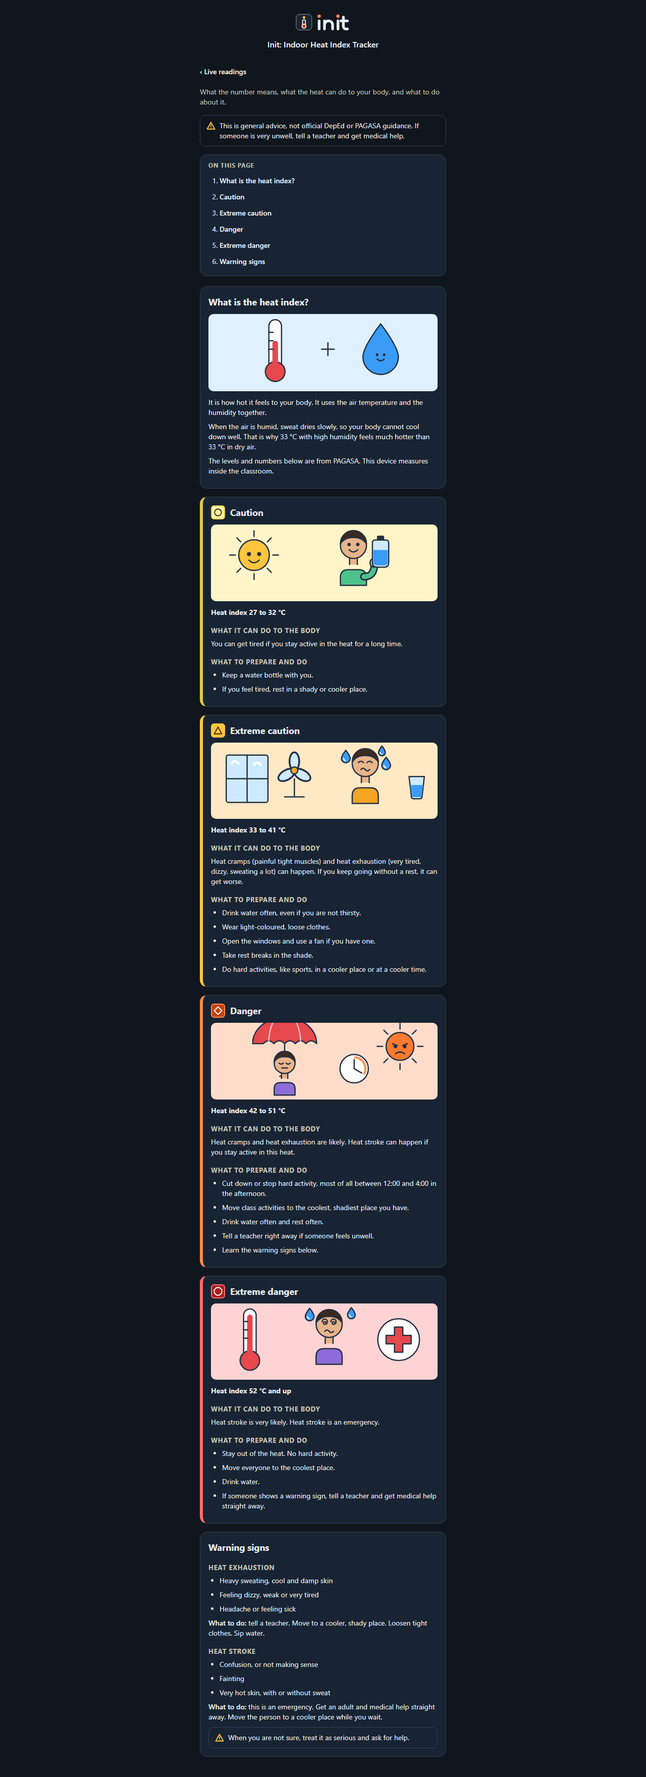
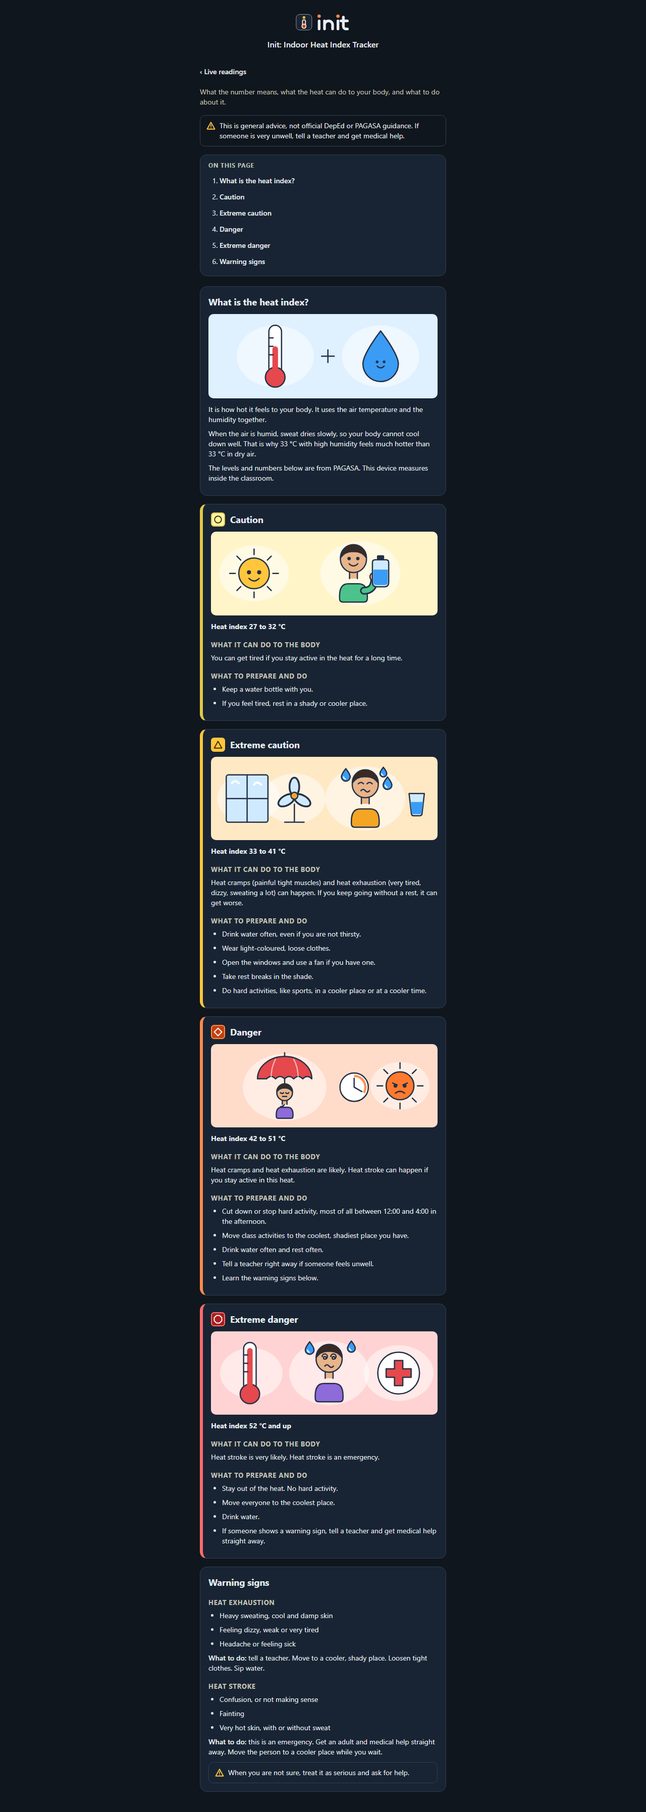
F-15 extended mocks: clip art laid out inside the frame, soft focus blobs, rounded kid busts
Nothing is cropped now. Mocks only, nothing built.

Changed region(s): [[0.3125, 0.0312, 0.6875, 1.0], [0.4688, 0.0, 0.5, 0.0312], [0.3125, 0.5625, 0.3438, 0.5938]]

diff --git a/design/heat-info/heat.html b/design/heat-info/heat.html
@@ -30,19 +30,19 @@
   </ol></nav>
 
   <section class="gd-sec" id="what"><h2>What is the heat index?</h2>
-    <svg class="hl-art hl-art-what" viewBox="0 0 326 110" aria-hidden="true"><g transform="translate(95 52) scale(1)"><rect x="-9" y="-44" width="18" height="70" rx="9" fill="#ffffff" stroke="#243044" stroke-width="2.5" stroke-linecap="round" stroke-linejoin="round" vector-effect="non-scaling-stroke"/><circle cx="0" cy="30" r="14" fill="#e5484d" stroke="#243044" stroke-width="2.5" stroke-linecap="round" stroke-linejoin="round" vector-effect="non-scaling-stroke"/><rect x="-4" y="-14" width="8" height="48" rx="4" fill="#e5484d"/><path d="M-9 -26h6M-9 -14h6M-9 -2h6" fill="none" stroke="#243044" stroke-width="2.5" stroke-linecap="round" stroke-linejoin="round" vector-effect="non-scaling-stroke" stroke-width="2"/></g><path d="M161 50h18M170 41v18" fill="none" stroke="#243044" stroke-width="2.5" stroke-linecap="round" stroke-linejoin="round" vector-effect="non-scaling-stroke" stroke-width="5"/><g transform="translate(245 50) scale(1)"><g transform="translate(0 0) scale(3.6)"><path d="M0-10C0-10-7-1-7 3a7 7 0 0 0 14 0C7-1 0-10 0-10z" fill="#3b9cf5" stroke="#243044" stroke-width="2.5" stroke-linecap="round" stroke-linejoin="round" vector-effect="non-scaling-stroke" stroke-width="2"/></g><g transform="translate(0 9)"><circle cx="-5" cy="-1" r="2" fill="#243044"/><circle cx="5" cy="-1" r="2" fill="#243044"/><path d="M-5 5Q0 10 5 5" fill="none" stroke="#243044" stroke-width="2.5" stroke-linecap="round" stroke-linejoin="round" vector-effect="non-scaling-stroke"/></g></g></svg>
+    <svg class="hl-art hl-art-what" viewBox="0 0 326 120" aria-hidden="true"><ellipse cx="95" cy="60" rx="55" ry="44" fill="#ffffff" opacity=".5"/><ellipse cx="245" cy="60" rx="55" ry="44" fill="#ffffff" opacity=".5"/><g transform="translate(95 60) scale(1)"><rect x="-9" y="-44" width="18" height="70" rx="9" fill="#ffffff" stroke="#243044" stroke-width="2.5" stroke-linecap="round" stroke-linejoin="round" vector-effect="non-scaling-stroke"/><circle cx="0" cy="30" r="14" fill="#e5484d" stroke="#243044" stroke-width="2.5" stroke-linecap="round" stroke-linejoin="round" vector-effect="non-scaling-stroke"/><rect x="-4" y="-14" width="8" height="48" rx="4" fill="#e5484d"/><path d="M-9 -26h6M-9 -14h6M-9 -2h6" fill="none" stroke="#243044" stroke-width="2.5" stroke-linecap="round" stroke-linejoin="round" vector-effect="non-scaling-stroke" stroke-width="2"/></g><path d="M161 60h18M170 51v18" fill="none" stroke="#243044" stroke-width="2.5" stroke-linecap="round" stroke-linejoin="round" vector-effect="non-scaling-stroke" stroke-width="5"/><g transform="translate(245 60) scale(1)"><g transform="translate(0 0) scale(3.6)"><path d="M0-10C0-10-7-1-7 3a7 7 0 0 0 14 0C7-1 0-10 0-10z" fill="#3b9cf5" stroke="#243044" stroke-width="2.5" stroke-linecap="round" stroke-linejoin="round" vector-effect="non-scaling-stroke" stroke-width="2"/></g><g transform="translate(0 9)"><circle cx="-5" cy="-1" r="2" fill="#243044"/><circle cx="5" cy="-1" r="2" fill="#243044"/><path d="M-5 5Q0 10 5 5" fill="none" stroke="#243044" stroke-width="2.5" stroke-linecap="round" stroke-linejoin="round" vector-effect="non-scaling-stroke"/></g></g></svg>
     <p>It is how hot it feels to your body. It uses the air temperature and the humidity together.</p>
     <p>When the air is humid, sweat dries slowly, so your body cannot cool down well. That is why 33 °C with high humidity feels much hotter than 33 °C in dry air.</p>
     <p>The levels and numbers below are from PAGASA. This device measures inside the classroom.</p></section>
 
   <section class="gd-sec hl-sec hl-caution" id="caution"><h2><span class="school-chip sc-caution"><svg viewBox="0 0 24 24" aria-hidden="true"><circle cx="12" cy="12" r="9"/></svg></span>Caution</h2>
-    <svg class="hl-art hl-art-caution" viewBox="0 0 326 110" aria-hidden="true"><g transform="translate(62 44) scale(1)"><path d="M27.0 0.0L35.0 0.0" fill="none" stroke="#243044" stroke-width="2.5" stroke-linecap="round" stroke-linejoin="round" vector-effect="non-scaling-stroke" stroke-width="3.5"/><path d="M19.1 19.1L24.7 24.7" fill="none" stroke="#243044" stroke-width="2.5" stroke-linecap="round" stroke-linejoin="round" vector-effect="non-scaling-stroke" stroke-width="3.5"/><path d="M0.0 27.0L0.0 35.0" fill="none" stroke="#243044" stroke-width="2.5" stroke-linecap="round" stroke-linejoin="round" vector-effect="non-scaling-stroke" stroke-width="3.5"/><path d="M-19.1 19.1L-24.7 24.7" fill="none" stroke="#243044" stroke-width="2.5" stroke-linecap="round" stroke-linejoin="round" vector-effect="non-scaling-stroke" stroke-width="3.5"/><path d="M-27.0 0.0L-35.0 0.0" fill="none" stroke="#243044" stroke-width="2.5" stroke-linecap="round" stroke-linejoin="round" vector-effect="non-scaling-stroke" stroke-width="3.5"/><path d="M-19.1 -19.1L-24.7 -24.7" fill="none" stroke="#243044" stroke-width="2.5" stroke-linecap="round" stroke-linejoin="round" vector-effect="non-scaling-stroke" stroke-width="3.5"/><path d="M-0.0 -27.0L-0.0 -35.0" fill="none" stroke="#243044" stroke-width="2.5" stroke-linecap="round" stroke-linejoin="round" vector-effect="non-scaling-stroke" stroke-width="3.5"/><path d="M19.1 -19.1L24.7 -24.7" fill="none" stroke="#243044" stroke-width="2.5" stroke-linecap="round" stroke-linejoin="round" vector-effect="non-scaling-stroke" stroke-width="3.5"/><circle r="22" fill="#ffc53d" stroke="#243044" stroke-width="2.5" stroke-linecap="round" stroke-linejoin="round" vector-effect="non-scaling-stroke"/><g transform="translate(0 0) scale(1.4666666666666666)"><circle cx="-5" cy="-1" r="2" fill="#243044"/><circle cx="5" cy="-1" r="2" fill="#243044"/><path d="M-5 5Q0 10 5 5" fill="none" stroke="#243044" stroke-width="2.5" stroke-linecap="round" stroke-linejoin="round" vector-effect="non-scaling-stroke"/></g></g><g transform="translate(205 30) scale(1.25)">
-  <path d="M-15 46v-9q0-9 9-9h12q9 0 9 9v9z" fill="#4cc38a" stroke="#243044" stroke-width="2.5" stroke-linecap="round" stroke-linejoin="round" vector-effect="non-scaling-stroke"/>
+    <svg class="hl-art hl-art-caution" viewBox="0 0 326 120" aria-hidden="true"><ellipse cx="62" cy="60" rx="50" ry="40" fill="#ffffff" opacity=".5"/><ellipse cx="215" cy="60" rx="57.5" ry="46" fill="#ffffff" opacity=".5"/><g transform="translate(62 60) scale(1)"><path d="M27.0 0.0L35.0 0.0" fill="none" stroke="#243044" stroke-width="2.5" stroke-linecap="round" stroke-linejoin="round" vector-effect="non-scaling-stroke" stroke-width="3.5"/><path d="M19.1 19.1L24.7 24.7" fill="none" stroke="#243044" stroke-width="2.5" stroke-linecap="round" stroke-linejoin="round" vector-effect="non-scaling-stroke" stroke-width="3.5"/><path d="M0.0 27.0L0.0 35.0" fill="none" stroke="#243044" stroke-width="2.5" stroke-linecap="round" stroke-linejoin="round" vector-effect="non-scaling-stroke" stroke-width="3.5"/><path d="M-19.1 19.1L-24.7 24.7" fill="none" stroke="#243044" stroke-width="2.5" stroke-linecap="round" stroke-linejoin="round" vector-effect="non-scaling-stroke" stroke-width="3.5"/><path d="M-27.0 0.0L-35.0 0.0" fill="none" stroke="#243044" stroke-width="2.5" stroke-linecap="round" stroke-linejoin="round" vector-effect="non-scaling-stroke" stroke-width="3.5"/><path d="M-19.1 -19.1L-24.7 -24.7" fill="none" stroke="#243044" stroke-width="2.5" stroke-linecap="round" stroke-linejoin="round" vector-effect="non-scaling-stroke" stroke-width="3.5"/><path d="M-0.0 -27.0L-0.0 -35.0" fill="none" stroke="#243044" stroke-width="2.5" stroke-linecap="round" stroke-linejoin="round" vector-effect="non-scaling-stroke" stroke-width="3.5"/><path d="M19.1 -19.1L24.7 -24.7" fill="none" stroke="#243044" stroke-width="2.5" stroke-linecap="round" stroke-linejoin="round" vector-effect="non-scaling-stroke" stroke-width="3.5"/><circle r="22" fill="#ffc53d" stroke="#243044" stroke-width="2.5" stroke-linecap="round" stroke-linejoin="round" vector-effect="non-scaling-stroke"/><g transform="translate(0 0) scale(1.4666666666666666)"><circle cx="-5" cy="-1" r="2" fill="#243044"/><circle cx="5" cy="-1" r="2" fill="#243044"/><path d="M-5 5Q0 10 5 5" fill="none" stroke="#243044" stroke-width="2.5" stroke-linecap="round" stroke-linejoin="round" vector-effect="non-scaling-stroke"/></g></g><g transform="translate(205 40) scale(1.25)">
+  <path d="M-16 42q0-14 10-14h12q10 0 10 14v3q0 4-4 4h-24q-4 0-4-4z" fill="#4cc38a" stroke="#243044" stroke-width="2.5" stroke-linecap="round" stroke-linejoin="round" vector-effect="non-scaling-stroke"/>
   <path d="M12 36q12 0 12-14" fill="none" stroke="#243044" stroke-width="9" stroke-linecap="round"/><path d="M12 36q12 0 12-14" fill="none" stroke="#4cc38a" stroke-width="5.5" stroke-linecap="round"/><circle cx="24" cy="20" r="5" fill="#e8b48a" stroke="#243044" stroke-width="2.5" stroke-linecap="round" stroke-linejoin="round" vector-effect="non-scaling-stroke"/>
   <rect x="-4.5" y="13" width="9" height="9" fill="#e8b48a"/><path d="M-4.5 14v8M4.5 14v8" fill="none" stroke="#243044" stroke-width="2.5" stroke-linecap="round" stroke-linejoin="round" vector-effect="non-scaling-stroke"/>
   <circle cx="0" cy="0" r="15" fill="#e8b48a" stroke="#243044" stroke-width="2.5" stroke-linecap="round" stroke-linejoin="round" vector-effect="non-scaling-stroke"/>
   <path d="M-15 -2A15 15 0 0 1 15 -2Q9-10 0-9Q-9-10-15-2z" fill="#3b2a20" stroke="#243044" stroke-width="2.5" stroke-linecap="round" stroke-linejoin="round" vector-effect="non-scaling-stroke"/>
-  <circle cx="-5" cy="-1" r="2" fill="#243044"/><circle cx="5" cy="-1" r="2" fill="#243044"/><path d="M-5 5Q0 10 5 5" fill="none" stroke="#243044" stroke-width="2.5" stroke-linecap="round" stroke-linejoin="round" vector-effect="non-scaling-stroke"/></g><g transform="translate(244 38) scale(1.3)"><rect x="-4" y="-17" width="8" height="5" rx="1.5" fill="#243044"/><path d="M-6-12h12q3 0 3 3v22q0 5-5 5h-8q-5 0-5-5v-22q0-3 3-3z" fill="#cfeaff" stroke="#243044" stroke-width="2.5" stroke-linecap="round" stroke-linejoin="round" vector-effect="non-scaling-stroke"/><path d="M-8 -1h16v14q0 3-4 3h-8q-4 0-4-3z" fill="#3b9cf5"/></g></svg>
+  <circle cx="-5" cy="-1" r="2" fill="#243044"/><circle cx="5" cy="-1" r="2" fill="#243044"/><path d="M-5 5Q0 10 5 5" fill="none" stroke="#243044" stroke-width="2.5" stroke-linecap="round" stroke-linejoin="round" vector-effect="non-scaling-stroke"/></g><g transform="translate(244 56) scale(1.3)"><rect x="-4" y="-17" width="8" height="5" rx="1.5" fill="#243044"/><path d="M-6-12h12q3 0 3 3v22q0 5-5 5h-8q-5 0-5-5v-22q0-3 3-3z" fill="#cfeaff" stroke="#243044" stroke-width="2.5" stroke-linecap="round" stroke-linejoin="round" vector-effect="non-scaling-stroke"/><path d="M-8 -1h16v14q0 3-4 3h-8q-4 0-4-3z" fill="#3b9cf5"/></g></svg>
     <p class="hl-range">Heat index 27 to 32 °C</p>
     <h3>What it can do to the body</h3>
     <p>You can get tired if you stay active in the heat for a long time.</p>
@@ -50,13 +50,13 @@
     <ul><li>Keep a water bottle with you.</li><li>If you feel tired, rest in a shady or cooler place.</li></ul></section>
 
   <section class="gd-sec hl-sec hl-extreme-caution" id="extreme-caution"><h2><span class="school-chip sc-extreme-caution"><svg viewBox="0 0 24 24" aria-hidden="true"><path d="M12 3 22 21H2z"/></svg></span>Extreme caution</h2>
-    <svg class="hl-art hl-art-extreme-caution" viewBox="0 0 326 110" aria-hidden="true"><g transform="translate(52 52) scale(1)"><rect x="-30" y="-34" width="60" height="68" rx="3" fill="#cfeaff" stroke="#243044" stroke-width="2.5" stroke-linecap="round" stroke-linejoin="round" vector-effect="non-scaling-stroke"/><path d="M0-34v68M-30 0h60" fill="none" stroke="#243044" stroke-width="2.5" stroke-linecap="round" stroke-linejoin="round" vector-effect="non-scaling-stroke"/><path d="M-22-22q4-6 10 0M10-20q4-6 10 0" fill="none" stroke="#ffffff" stroke-width="3" stroke-linecap="round"/></g><g transform="translate(120 40) scale(1)"><path d="M-14 38h28M0 12v26" fill="none" stroke="#243044" stroke-width="2.5" stroke-linecap="round" stroke-linejoin="round" vector-effect="non-scaling-stroke" stroke-width="3.5"/><g fill="#cfeaff" stroke="#243044" stroke-width="2.5" stroke-linecap="round" stroke-linejoin="round" vector-effect="non-scaling-stroke"><ellipse cx="0" cy="-13" rx="7" ry="13"/><ellipse cx="0" cy="-13" rx="7" ry="13" transform="rotate(120)"/><ellipse cx="0" cy="-13" rx="7" ry="13" transform="rotate(240)"/></g><circle r="5" fill="#f5a524" stroke="#243044" stroke-width="2.5" stroke-linecap="round" stroke-linejoin="round" vector-effect="non-scaling-stroke"/></g><g transform="translate(222 30) scale(1.25)">
-  <path d="M-15 46v-9q0-9 9-9h12q9 0 9 9v9z" fill="#f5a524" stroke="#243044" stroke-width="2.5" stroke-linecap="round" stroke-linejoin="round" vector-effect="non-scaling-stroke"/>
+    <svg class="hl-art hl-art-extreme-caution" viewBox="0 0 326 120" aria-hidden="true"><ellipse cx="54" cy="60" rx="45" ry="36" fill="#ffffff" opacity=".5"/><ellipse cx="120" cy="60" rx="45" ry="36" fill="#ffffff" opacity=".5"/><ellipse cx="222" cy="60" rx="57.5" ry="46" fill="#ffffff" opacity=".5"/><g transform="translate(52 60) scale(1)"><rect x="-30" y="-34" width="60" height="68" rx="3" fill="#cfeaff" stroke="#243044" stroke-width="2.5" stroke-linecap="round" stroke-linejoin="round" vector-effect="non-scaling-stroke"/><path d="M0-34v68M-30 0h60" fill="none" stroke="#243044" stroke-width="2.5" stroke-linecap="round" stroke-linejoin="round" vector-effect="non-scaling-stroke"/><path d="M-22-22q4-6 10 0M10-20q4-6 10 0" fill="none" stroke="#ffffff" stroke-width="3" stroke-linecap="round"/></g><g transform="translate(120 56) scale(1)"><path d="M-14 38h28M0 12v26" fill="none" stroke="#243044" stroke-width="2.5" stroke-linecap="round" stroke-linejoin="round" vector-effect="non-scaling-stroke" stroke-width="3.5"/><g fill="#cfeaff" stroke="#243044" stroke-width="2.5" stroke-linecap="round" stroke-linejoin="round" vector-effect="non-scaling-stroke"><ellipse cx="0" cy="-13" rx="7" ry="13"/><ellipse cx="0" cy="-13" rx="7" ry="13" transform="rotate(120)"/><ellipse cx="0" cy="-13" rx="7" ry="13" transform="rotate(240)"/></g><circle r="5" fill="#f5a524" stroke="#243044" stroke-width="2.5" stroke-linecap="round" stroke-linejoin="round" vector-effect="non-scaling-stroke"/></g><g transform="translate(222 40) scale(1.25)">
+  <path d="M-16 42q0-14 10-14h12q10 0 10 14v3q0 4-4 4h-24q-4 0-4-4z" fill="#f5a524" stroke="#243044" stroke-width="2.5" stroke-linecap="round" stroke-linejoin="round" vector-effect="non-scaling-stroke"/>
   
   <rect x="-4.5" y="13" width="9" height="9" fill="#e8b48a"/><path d="M-4.5 14v8M4.5 14v8" fill="none" stroke="#243044" stroke-width="2.5" stroke-linecap="round" stroke-linejoin="round" vector-effect="non-scaling-stroke"/>
   <circle cx="0" cy="0" r="15" fill="#e8b48a" stroke="#243044" stroke-width="2.5" stroke-linecap="round" stroke-linejoin="round" vector-effect="non-scaling-stroke"/>
   <path d="M-15 -2A15 15 0 0 1 15 -2Q9-10 0-9Q-9-10-15-2z" fill="#3b2a20" stroke="#243044" stroke-width="2.5" stroke-linecap="round" stroke-linejoin="round" vector-effect="non-scaling-stroke"/>
-  <path d="M-8 -1q3-3 6 0M2 -1q3-3 6 0" fill="none" stroke="#243044" stroke-width="2.5" stroke-linecap="round" stroke-linejoin="round" vector-effect="non-scaling-stroke"/><path d="M-5 7q2.5-3 5 0t5 0" fill="none" stroke="#243044" stroke-width="2.5" stroke-linecap="round" stroke-linejoin="round" vector-effect="non-scaling-stroke"/></g><g transform="translate(194 20) scale(0.9)"><path d="M0-10C0-10-7-1-7 3a7 7 0 0 0 14 0C7-1 0-10 0-10z" fill="#3b9cf5" stroke="#243044" stroke-width="2.5" stroke-linecap="round" stroke-linejoin="round" vector-effect="non-scaling-stroke" stroke-width="2"/><path d="M-3.5 3a3.5 3.5 0 0 0 3 3.5" fill="none" stroke="#ffffff" stroke-width="1.8" stroke-linecap="round"/></g><g transform="translate(252 30) scale(0.9)"><path d="M0-10C0-10-7-1-7 3a7 7 0 0 0 14 0C7-1 0-10 0-10z" fill="#3b9cf5" stroke="#243044" stroke-width="2.5" stroke-linecap="round" stroke-linejoin="round" vector-effect="non-scaling-stroke" stroke-width="2"/><path d="M-3.5 3a3.5 3.5 0 0 0 3 3.5" fill="none" stroke="#ffffff" stroke-width="1.8" stroke-linecap="round"/></g><g transform="translate(246 12) scale(0.7)"><path d="M0-10C0-10-7-1-7 3a7 7 0 0 0 14 0C7-1 0-10 0-10z" fill="#3b9cf5" stroke="#243044" stroke-width="2.5" stroke-linecap="round" stroke-linejoin="round" vector-effect="non-scaling-stroke" stroke-width="2"/><path d="M-3.5 3a3.5 3.5 0 0 0 3 3.5" fill="none" stroke="#ffffff" stroke-width="1.8" stroke-linecap="round"/></g><g transform="translate(296 62) scale(1.1)"><path d="M-10-12h20l-3 26q0 3-3 3h-8q-3 0-3-3z" fill="#cfeaff" stroke="#243044" stroke-width="2.5" stroke-linecap="round" stroke-linejoin="round" vector-effect="non-scaling-stroke"/><path d="M-8.5 -1h17l-2 14q0 2-2 2h-9q-2 0-2-2z" fill="#3b9cf5"/></g></svg>
+  <path d="M-8 -1q3-3 6 0M2 -1q3-3 6 0" fill="none" stroke="#243044" stroke-width="2.5" stroke-linecap="round" stroke-linejoin="round" vector-effect="non-scaling-stroke"/><path d="M-5 7q2.5-3 5 0t5 0" fill="none" stroke="#243044" stroke-width="2.5" stroke-linecap="round" stroke-linejoin="round" vector-effect="non-scaling-stroke"/></g><g transform="translate(194 26) scale(0.9)"><path d="M0-10C0-10-7-1-7 3a7 7 0 0 0 14 0C7-1 0-10 0-10z" fill="#3b9cf5" stroke="#243044" stroke-width="2.5" stroke-linecap="round" stroke-linejoin="round" vector-effect="non-scaling-stroke" stroke-width="2"/><path d="M-3.5 3a3.5 3.5 0 0 0 3 3.5" fill="none" stroke="#ffffff" stroke-width="1.8" stroke-linecap="round"/></g><g transform="translate(254 38) scale(0.9)"><path d="M0-10C0-10-7-1-7 3a7 7 0 0 0 14 0C7-1 0-10 0-10z" fill="#3b9cf5" stroke="#243044" stroke-width="2.5" stroke-linecap="round" stroke-linejoin="round" vector-effect="non-scaling-stroke" stroke-width="2"/><path d="M-3.5 3a3.5 3.5 0 0 0 3 3.5" fill="none" stroke="#ffffff" stroke-width="1.8" stroke-linecap="round"/></g><g transform="translate(248 22) scale(0.7)"><path d="M0-10C0-10-7-1-7 3a7 7 0 0 0 14 0C7-1 0-10 0-10z" fill="#3b9cf5" stroke="#243044" stroke-width="2.5" stroke-linecap="round" stroke-linejoin="round" vector-effect="non-scaling-stroke" stroke-width="2"/><path d="M-3.5 3a3.5 3.5 0 0 0 3 3.5" fill="none" stroke="#ffffff" stroke-width="1.8" stroke-linecap="round"/></g><g transform="translate(296 66) scale(1.1)"><path d="M-10-12h20l-3 26q0 3-3 3h-8q-3 0-3-3z" fill="#cfeaff" stroke="#243044" stroke-width="2.5" stroke-linecap="round" stroke-linejoin="round" vector-effect="non-scaling-stroke"/><path d="M-8.5 -1h17l-2 14q0 2-2 2h-9q-2 0-2-2z" fill="#3b9cf5"/></g></svg>
     <p class="hl-range">Heat index 33 to 41 °C</p>
     <h3>What it can do to the body</h3>
     <p>Heat cramps (painful tight muscles) and heat exhaustion (very tired, dizzy, sweating a lot) can happen. If you keep going without a rest, it can get worse.</p>
@@ -64,13 +64,13 @@
     <ul><li>Drink water often, even if you are not thirsty.</li><li>Wear light-coloured, loose clothes.</li><li>Open the windows and use a fan if you have one.</li><li>Take rest breaks in the shade.</li><li>Do hard activities, like sports, in a cooler place or at a cooler time.</li></ul></section>
 
   <section class="gd-sec hl-sec hl-danger" id="danger"><h2><span class="school-chip sc-danger"><svg viewBox="0 0 24 24" aria-hidden="true"><path d="M12 2 22 12 12 22 2 12z"/></svg></span>Danger</h2>
-    <svg class="hl-art hl-art-danger" viewBox="0 0 326 110" aria-hidden="true"><g transform="translate(272 34) scale(1)"><path d="M25.0 0.0L33.0 0.0" fill="none" stroke="#243044" stroke-width="2.5" stroke-linecap="round" stroke-linejoin="round" vector-effect="non-scaling-stroke" stroke-width="3.5"/><path d="M17.7 17.7L23.3 23.3" fill="none" stroke="#243044" stroke-width="2.5" stroke-linecap="round" stroke-linejoin="round" vector-effect="non-scaling-stroke" stroke-width="3.5"/><path d="M0.0 25.0L0.0 33.0" fill="none" stroke="#243044" stroke-width="2.5" stroke-linecap="round" stroke-linejoin="round" vector-effect="non-scaling-stroke" stroke-width="3.5"/><path d="M-17.7 17.7L-23.3 23.3" fill="none" stroke="#243044" stroke-width="2.5" stroke-linecap="round" stroke-linejoin="round" vector-effect="non-scaling-stroke" stroke-width="3.5"/><path d="M-25.0 0.0L-33.0 0.0" fill="none" stroke="#243044" stroke-width="2.5" stroke-linecap="round" stroke-linejoin="round" vector-effect="non-scaling-stroke" stroke-width="3.5"/><path d="M-17.7 -17.7L-23.3 -23.3" fill="none" stroke="#243044" stroke-width="2.5" stroke-linecap="round" stroke-linejoin="round" vector-effect="non-scaling-stroke" stroke-width="3.5"/><path d="M-0.0 -25.0L-0.0 -33.0" fill="none" stroke="#243044" stroke-width="2.5" stroke-linecap="round" stroke-linejoin="round" vector-effect="non-scaling-stroke" stroke-width="3.5"/><path d="M17.7 -17.7L23.3 -23.3" fill="none" stroke="#243044" stroke-width="2.5" stroke-linecap="round" stroke-linejoin="round" vector-effect="non-scaling-stroke" stroke-width="3.5"/><circle r="20" fill="#ff7a2f" stroke="#243044" stroke-width="2.5" stroke-linecap="round" stroke-linejoin="round" vector-effect="non-scaling-stroke"/><g transform="translate(0 0) scale(1.3333333333333333)"><path d="M-8 -3l5 2M8 -3l-5 2" fill="none" stroke="#243044" stroke-width="2.5" stroke-linecap="round" stroke-linejoin="round" vector-effect="non-scaling-stroke"/><circle cx="-5" cy="0" r="2" fill="#243044"/><circle cx="5" cy="0" r="2" fill="#243044"/><path d="M-5 8Q0 4 5 8" fill="none" stroke="#243044" stroke-width="2.5" stroke-linecap="round" stroke-linejoin="round" vector-effect="non-scaling-stroke"/></g></g><g transform="translate(106 30) scale(1)"><path d="M-46 0a46 38 0 0 1 92 0q-8-8-15.3 0q-7.7-8-15.4 0q-7.6-8-15.3 0q-7.7-8-15.4 0q-7.6-8-15.3 0z" fill="#e5484d" stroke="#243044" stroke-width="2.5" stroke-linecap="round" stroke-linejoin="round" vector-effect="non-scaling-stroke"/><path d="M0 -38v-6" fill="none" stroke="#243044" stroke-width="2.5" stroke-linecap="round" stroke-linejoin="round" vector-effect="non-scaling-stroke"/><path d="M0 0v40q0 7-7 7" fill="none" stroke="#243044" stroke-width="2.5" stroke-linecap="round" stroke-linejoin="round" vector-effect="non-scaling-stroke" stroke-width="3.5"/><path d="M-15 -34q-8 14-8 34M15 -34q8 14 8 34" fill="none" stroke="#ffffff" stroke-width="2" opacity=".6"/></g><g transform="translate(106 58) scale(1)">
-  <path d="M-15 46v-9q0-9 9-9h12q9 0 9 9v9z" fill="#8e6bd8" stroke="#243044" stroke-width="2.5" stroke-linecap="round" stroke-linejoin="round" vector-effect="non-scaling-stroke"/>
+    <svg class="hl-art hl-art-danger" viewBox="0 0 326 120" aria-hidden="true"><ellipse cx="106" cy="62" rx="60" ry="48" fill="#ffffff" opacity=".5"/><g transform="translate(106 50) scale(0.85)"><path d="M-46 0a46 38 0 0 1 92 0q-8-8-15.3 0q-7.7-8-15.4 0q-7.6-8-15.3 0q-7.7-8-15.4 0q-7.6-8-15.3 0z" fill="#e5484d" stroke="#243044" stroke-width="2.5" stroke-linecap="round" stroke-linejoin="round" vector-effect="non-scaling-stroke"/><path d="M0 -38v-6" fill="none" stroke="#243044" stroke-width="2.5" stroke-linecap="round" stroke-linejoin="round" vector-effect="non-scaling-stroke"/><path d="M0 0v40q0 7-7 7" fill="none" stroke="#243044" stroke-width="2.5" stroke-linecap="round" stroke-linejoin="round" vector-effect="non-scaling-stroke" stroke-width="3.5"/><path d="M-15 -34q-8 14-8 34M15 -34q8 14 8 34" fill="none" stroke="#ffffff" stroke-width="2" opacity=".6"/></g><g transform="translate(106 70) scale(0.75)">
+  <path d="M-16 42q0-14 10-14h12q10 0 10 14v3q0 4-4 4h-24q-4 0-4-4z" fill="#8e6bd8" stroke="#243044" stroke-width="2.5" stroke-linecap="round" stroke-linejoin="round" vector-effect="non-scaling-stroke"/>
   
   <rect x="-4.5" y="13" width="9" height="9" fill="#e8b48a"/><path d="M-4.5 14v8M4.5 14v8" fill="none" stroke="#243044" stroke-width="2.5" stroke-linecap="round" stroke-linejoin="round" vector-effect="non-scaling-stroke"/>
   <circle cx="0" cy="0" r="15" fill="#e8b48a" stroke="#243044" stroke-width="2.5" stroke-linecap="round" stroke-linejoin="round" vector-effect="non-scaling-stroke"/>
   <path d="M-15 -2A15 15 0 0 1 15 -2Q9-10 0-9Q-9-10-15-2z" fill="#3b2a20" stroke="#243044" stroke-width="2.5" stroke-linecap="round" stroke-linejoin="round" vector-effect="non-scaling-stroke"/>
-  <path d="M-8 0q3 3 6 0M2 0q3 3 6 0" fill="none" stroke="#243044" stroke-width="2.5" stroke-linecap="round" stroke-linejoin="round" vector-effect="non-scaling-stroke"/><path d="M-4 7h8" fill="none" stroke="#243044" stroke-width="2.5" stroke-linecap="round" stroke-linejoin="round" vector-effect="non-scaling-stroke"/></g><g transform="translate(206 66) scale(0.85)"><circle r="24" fill="#ffffff" stroke="#243044" stroke-width="2.5" stroke-linecap="round" stroke-linejoin="round" vector-effect="non-scaling-stroke"/><path d="M0 0V-15M0 0l13 7.5" fill="none" stroke="#243044" stroke-width="2.5" stroke-linecap="round" stroke-linejoin="round" vector-effect="non-scaling-stroke" stroke-width="3.5"/><path d="M0 -19A19 19 0 0 1 16.5 9.5" fill="none" stroke="#ff7a2f" stroke-width="4" opacity=".8"/></g></svg>
+  <path d="M-8 0q3 3 6 0M2 0q3 3 6 0" fill="none" stroke="#243044" stroke-width="2.5" stroke-linecap="round" stroke-linejoin="round" vector-effect="non-scaling-stroke"/><path d="M-4 7h8" fill="none" stroke="#243044" stroke-width="2.5" stroke-linecap="round" stroke-linejoin="round" vector-effect="non-scaling-stroke"/></g><g transform="translate(206 62) scale(0.85)"><circle r="24" fill="#ffffff" stroke="#243044" stroke-width="2.5" stroke-linecap="round" stroke-linejoin="round" vector-effect="non-scaling-stroke"/><path d="M0 0V-15M0 0l13 7.5" fill="none" stroke="#243044" stroke-width="2.5" stroke-linecap="round" stroke-linejoin="round" vector-effect="non-scaling-stroke" stroke-width="3.5"/><path d="M0 -19A19 19 0 0 1 16.5 9.5" fill="none" stroke="#ff7a2f" stroke-width="4" opacity=".8"/></g><ellipse cx="272" cy="60" rx="42.5" ry="34" fill="#ffffff" opacity=".5"/><g transform="translate(272 60) scale(1)"><path d="M25.0 0.0L33.0 0.0" fill="none" stroke="#243044" stroke-width="2.5" stroke-linecap="round" stroke-linejoin="round" vector-effect="non-scaling-stroke" stroke-width="3.5"/><path d="M17.7 17.7L23.3 23.3" fill="none" stroke="#243044" stroke-width="2.5" stroke-linecap="round" stroke-linejoin="round" vector-effect="non-scaling-stroke" stroke-width="3.5"/><path d="M0.0 25.0L0.0 33.0" fill="none" stroke="#243044" stroke-width="2.5" stroke-linecap="round" stroke-linejoin="round" vector-effect="non-scaling-stroke" stroke-width="3.5"/><path d="M-17.7 17.7L-23.3 23.3" fill="none" stroke="#243044" stroke-width="2.5" stroke-linecap="round" stroke-linejoin="round" vector-effect="non-scaling-stroke" stroke-width="3.5"/><path d="M-25.0 0.0L-33.0 0.0" fill="none" stroke="#243044" stroke-width="2.5" stroke-linecap="round" stroke-linejoin="round" vector-effect="non-scaling-stroke" stroke-width="3.5"/><path d="M-17.7 -17.7L-23.3 -23.3" fill="none" stroke="#243044" stroke-width="2.5" stroke-linecap="round" stroke-linejoin="round" vector-effect="non-scaling-stroke" stroke-width="3.5"/><path d="M-0.0 -25.0L-0.0 -33.0" fill="none" stroke="#243044" stroke-width="2.5" stroke-linecap="round" stroke-linejoin="round" vector-effect="non-scaling-stroke" stroke-width="3.5"/><path d="M17.7 -17.7L23.3 -23.3" fill="none" stroke="#243044" stroke-width="2.5" stroke-linecap="round" stroke-linejoin="round" vector-effect="non-scaling-stroke" stroke-width="3.5"/><circle r="20" fill="#ff7a2f" stroke="#243044" stroke-width="2.5" stroke-linecap="round" stroke-linejoin="round" vector-effect="non-scaling-stroke"/><g transform="translate(0 0) scale(1.3333333333333333)"><path d="M-8 -3l5 2M8 -3l-5 2" fill="none" stroke="#243044" stroke-width="2.5" stroke-linecap="round" stroke-linejoin="round" vector-effect="non-scaling-stroke"/><circle cx="-5" cy="0" r="2" fill="#243044"/><circle cx="5" cy="0" r="2" fill="#243044"/><path d="M-5 8Q0 4 5 8" fill="none" stroke="#243044" stroke-width="2.5" stroke-linecap="round" stroke-linejoin="round" vector-effect="non-scaling-stroke"/></g></g></svg>
     <p class="hl-range">Heat index 42 to 51 °C</p>
     <h3>What it can do to the body</h3>
     <p>Heat cramps and heat exhaustion are likely. Heat stroke can happen if you stay active in this heat.</p>
@@ -78,13 +78,13 @@
     <ul><li>Cut down or stop hard activity, most of all between 12:00 and 4:00 in the afternoon.</li><li>Move class activities to the coolest, shadiest place you have.</li><li>Drink water often and rest often.</li><li>Tell a teacher right away if someone feels unwell.</li><li>Learn the warning signs below.</li></ul></section>
 
   <section class="gd-sec hl-sec hl-extreme-danger" id="extreme-danger"><h2><span class="school-chip sc-extreme-danger"><svg viewBox="0 0 24 24" aria-hidden="true"><path d="M8 2h8l6 6v8l-6 6H8l-6-6V8z"/></svg></span>Extreme danger</h2>
-    <svg class="hl-art hl-art-extreme-danger" viewBox="0 0 326 110" aria-hidden="true"><g transform="translate(56 52) scale(1)"><rect x="-9" y="-44" width="18" height="70" rx="9" fill="#ffffff" stroke="#243044" stroke-width="2.5" stroke-linecap="round" stroke-linejoin="round" vector-effect="non-scaling-stroke"/><circle cx="0" cy="30" r="14" fill="#e5484d" stroke="#243044" stroke-width="2.5" stroke-linecap="round" stroke-linejoin="round" vector-effect="non-scaling-stroke"/><rect x="-4" y="-36" width="8" height="70" rx="4" fill="#e5484d"/><path d="M-9 -26h6M-9 -14h6M-9 -2h6" fill="none" stroke="#243044" stroke-width="2.5" stroke-linecap="round" stroke-linejoin="round" vector-effect="non-scaling-stroke" stroke-width="2"/></g><g transform="translate(170 30) scale(1.25)">
-  <path d="M-15 46v-9q0-9 9-9h12q9 0 9 9v9z" fill="#8e6bd8" stroke="#243044" stroke-width="2.5" stroke-linecap="round" stroke-linejoin="round" vector-effect="non-scaling-stroke"/>
+    <svg class="hl-art hl-art-extreme-danger" viewBox="0 0 326 120" aria-hidden="true"><ellipse cx="58" cy="60" rx="45" ry="36" fill="#ffffff" opacity=".5"/><ellipse cx="170" cy="60" rx="57.5" ry="46" fill="#ffffff" opacity=".5"/><ellipse cx="270" cy="60" rx="50" ry="40" fill="#ffffff" opacity=".5"/><g transform="translate(56 60) scale(1)"><rect x="-9" y="-44" width="18" height="70" rx="9" fill="#ffffff" stroke="#243044" stroke-width="2.5" stroke-linecap="round" stroke-linejoin="round" vector-effect="non-scaling-stroke"/><circle cx="0" cy="30" r="14" fill="#e5484d" stroke="#243044" stroke-width="2.5" stroke-linecap="round" stroke-linejoin="round" vector-effect="non-scaling-stroke"/><rect x="-4" y="-36" width="8" height="70" rx="4" fill="#e5484d"/><path d="M-9 -26h6M-9 -14h6M-9 -2h6" fill="none" stroke="#243044" stroke-width="2.5" stroke-linecap="round" stroke-linejoin="round" vector-effect="non-scaling-stroke" stroke-width="2"/></g><g transform="translate(170 40) scale(1.25)">
+  <path d="M-16 42q0-14 10-14h12q10 0 10 14v3q0 4-4 4h-24q-4 0-4-4z" fill="#8e6bd8" stroke="#243044" stroke-width="2.5" stroke-linecap="round" stroke-linejoin="round" vector-effect="non-scaling-stroke"/>
   
   <rect x="-4.5" y="13" width="9" height="9" fill="#e8b48a"/><path d="M-4.5 14v8M4.5 14v8" fill="none" stroke="#243044" stroke-width="2.5" stroke-linecap="round" stroke-linejoin="round" vector-effect="non-scaling-stroke"/>
   <circle cx="0" cy="0" r="15" fill="#e8b48a" stroke="#243044" stroke-width="2.5" stroke-linecap="round" stroke-linejoin="round" vector-effect="non-scaling-stroke"/>
   <path d="M-15 -2A15 15 0 0 1 15 -2Q9-10 0-9Q-9-10-15-2z" fill="#3b2a20" stroke="#243044" stroke-width="2.5" stroke-linecap="round" stroke-linejoin="round" vector-effect="non-scaling-stroke"/>
-  <path d="M-8 -3a3 3 0 1 1 3 3a1.5 1.5 0 1 1 1.5-1.5M2 -3a3 3 0 1 1 3 3a1.5 1.5 0 1 1 1.5-1.5" fill="none" stroke="#243044" stroke-width="2.5" stroke-linecap="round" stroke-linejoin="round" vector-effect="non-scaling-stroke" stroke-width="1.8"/><path d="M-5 8q2.5-3 5 0t5 0" fill="none" stroke="#243044" stroke-width="2.5" stroke-linecap="round" stroke-linejoin="round" vector-effect="non-scaling-stroke"/></g><g transform="translate(142 16) scale(0.9)"><path d="M0-10C0-10-7-1-7 3a7 7 0 0 0 14 0C7-1 0-10 0-10z" fill="#3b9cf5" stroke="#243044" stroke-width="2.5" stroke-linecap="round" stroke-linejoin="round" vector-effect="non-scaling-stroke" stroke-width="2"/><path d="M-3.5 3a3.5 3.5 0 0 0 3 3.5" fill="none" stroke="#ffffff" stroke-width="1.8" stroke-linecap="round"/></g><g transform="translate(202 14) scale(0.8)"><path d="M0-10C0-10-7-1-7 3a7 7 0 0 0 14 0C7-1 0-10 0-10z" fill="#3b9cf5" stroke="#243044" stroke-width="2.5" stroke-linecap="round" stroke-linejoin="round" vector-effect="non-scaling-stroke" stroke-width="2"/><path d="M-3.5 3a3.5 3.5 0 0 0 3 3.5" fill="none" stroke="#ffffff" stroke-width="1.8" stroke-linecap="round"/></g><g transform="translate(270 52) scale(1)"><circle r="30" fill="#ffffff" stroke="#243044" stroke-width="2.5" stroke-linecap="round" stroke-linejoin="round" vector-effect="non-scaling-stroke"/><path d="M-6-18h12v12h12v12h-12v12h-12v-12h-12v-12h12z" fill="#e5484d" stroke="#243044" stroke-width="2.5" stroke-linecap="round" stroke-linejoin="round" vector-effect="non-scaling-stroke"/></g></svg>
+  <path d="M-8 -3a3 3 0 1 1 3 3a1.5 1.5 0 1 1 1.5-1.5M2 -3a3 3 0 1 1 3 3a1.5 1.5 0 1 1 1.5-1.5" fill="none" stroke="#243044" stroke-width="2.5" stroke-linecap="round" stroke-linejoin="round" vector-effect="non-scaling-stroke" stroke-width="1.8"/><path d="M-5 8q2.5-3 5 0t5 0" fill="none" stroke="#243044" stroke-width="2.5" stroke-linecap="round" stroke-linejoin="round" vector-effect="non-scaling-stroke"/></g><g transform="translate(142 24) scale(0.9)"><path d="M0-10C0-10-7-1-7 3a7 7 0 0 0 14 0C7-1 0-10 0-10z" fill="#3b9cf5" stroke="#243044" stroke-width="2.5" stroke-linecap="round" stroke-linejoin="round" vector-effect="non-scaling-stroke" stroke-width="2"/><path d="M-3.5 3a3.5 3.5 0 0 0 3 3.5" fill="none" stroke="#ffffff" stroke-width="1.8" stroke-linecap="round"/></g><g transform="translate(202 22) scale(0.8)"><path d="M0-10C0-10-7-1-7 3a7 7 0 0 0 14 0C7-1 0-10 0-10z" fill="#3b9cf5" stroke="#243044" stroke-width="2.5" stroke-linecap="round" stroke-linejoin="round" vector-effect="non-scaling-stroke" stroke-width="2"/><path d="M-3.5 3a3.5 3.5 0 0 0 3 3.5" fill="none" stroke="#ffffff" stroke-width="1.8" stroke-linecap="round"/></g><g transform="translate(270 60) scale(1)"><circle r="30" fill="#ffffff" stroke="#243044" stroke-width="2.5" stroke-linecap="round" stroke-linejoin="round" vector-effect="non-scaling-stroke"/><path d="M-6-18h12v12h12v12h-12v12h-12v-12h-12v-12h12z" fill="#e5484d" stroke="#243044" stroke-width="2.5" stroke-linecap="round" stroke-linejoin="round" vector-effect="non-scaling-stroke"/></g></svg>
     <p class="hl-range">Heat index 52 °C and up</p>
     <h3>What it can do to the body</h3>
     <p>Heat stroke is very likely. Heat stroke is an emergency.</p>
